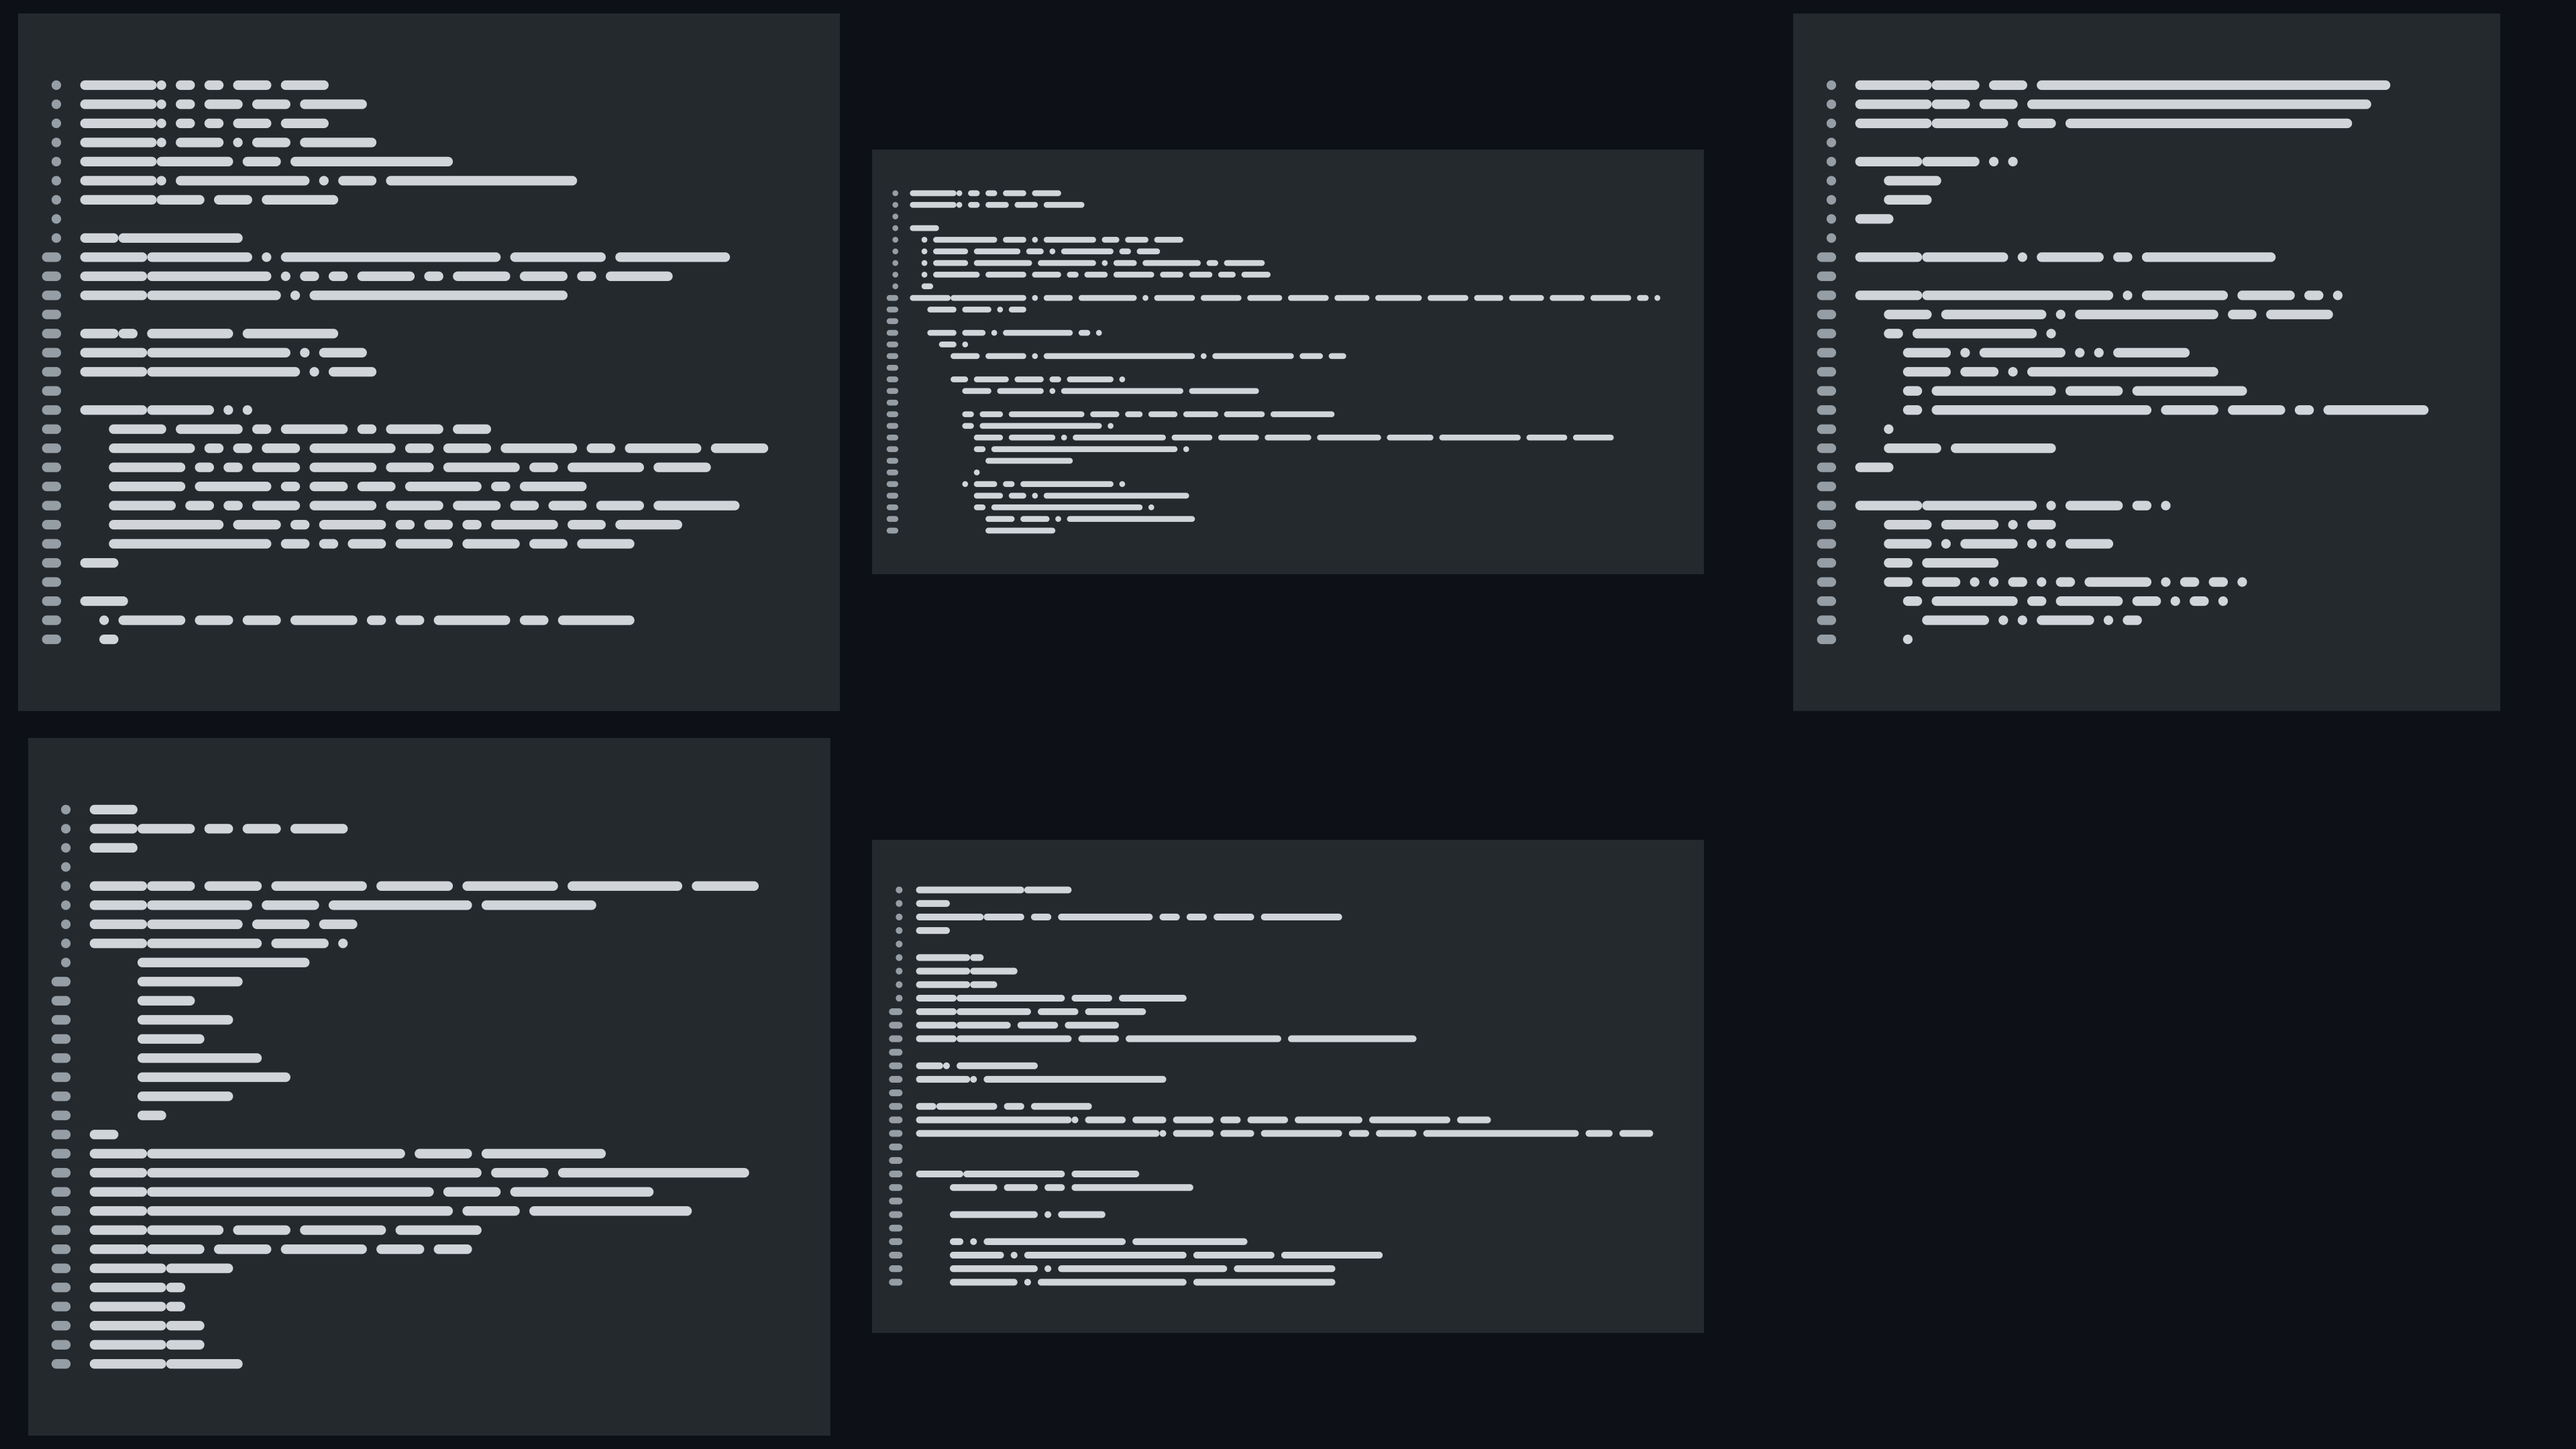
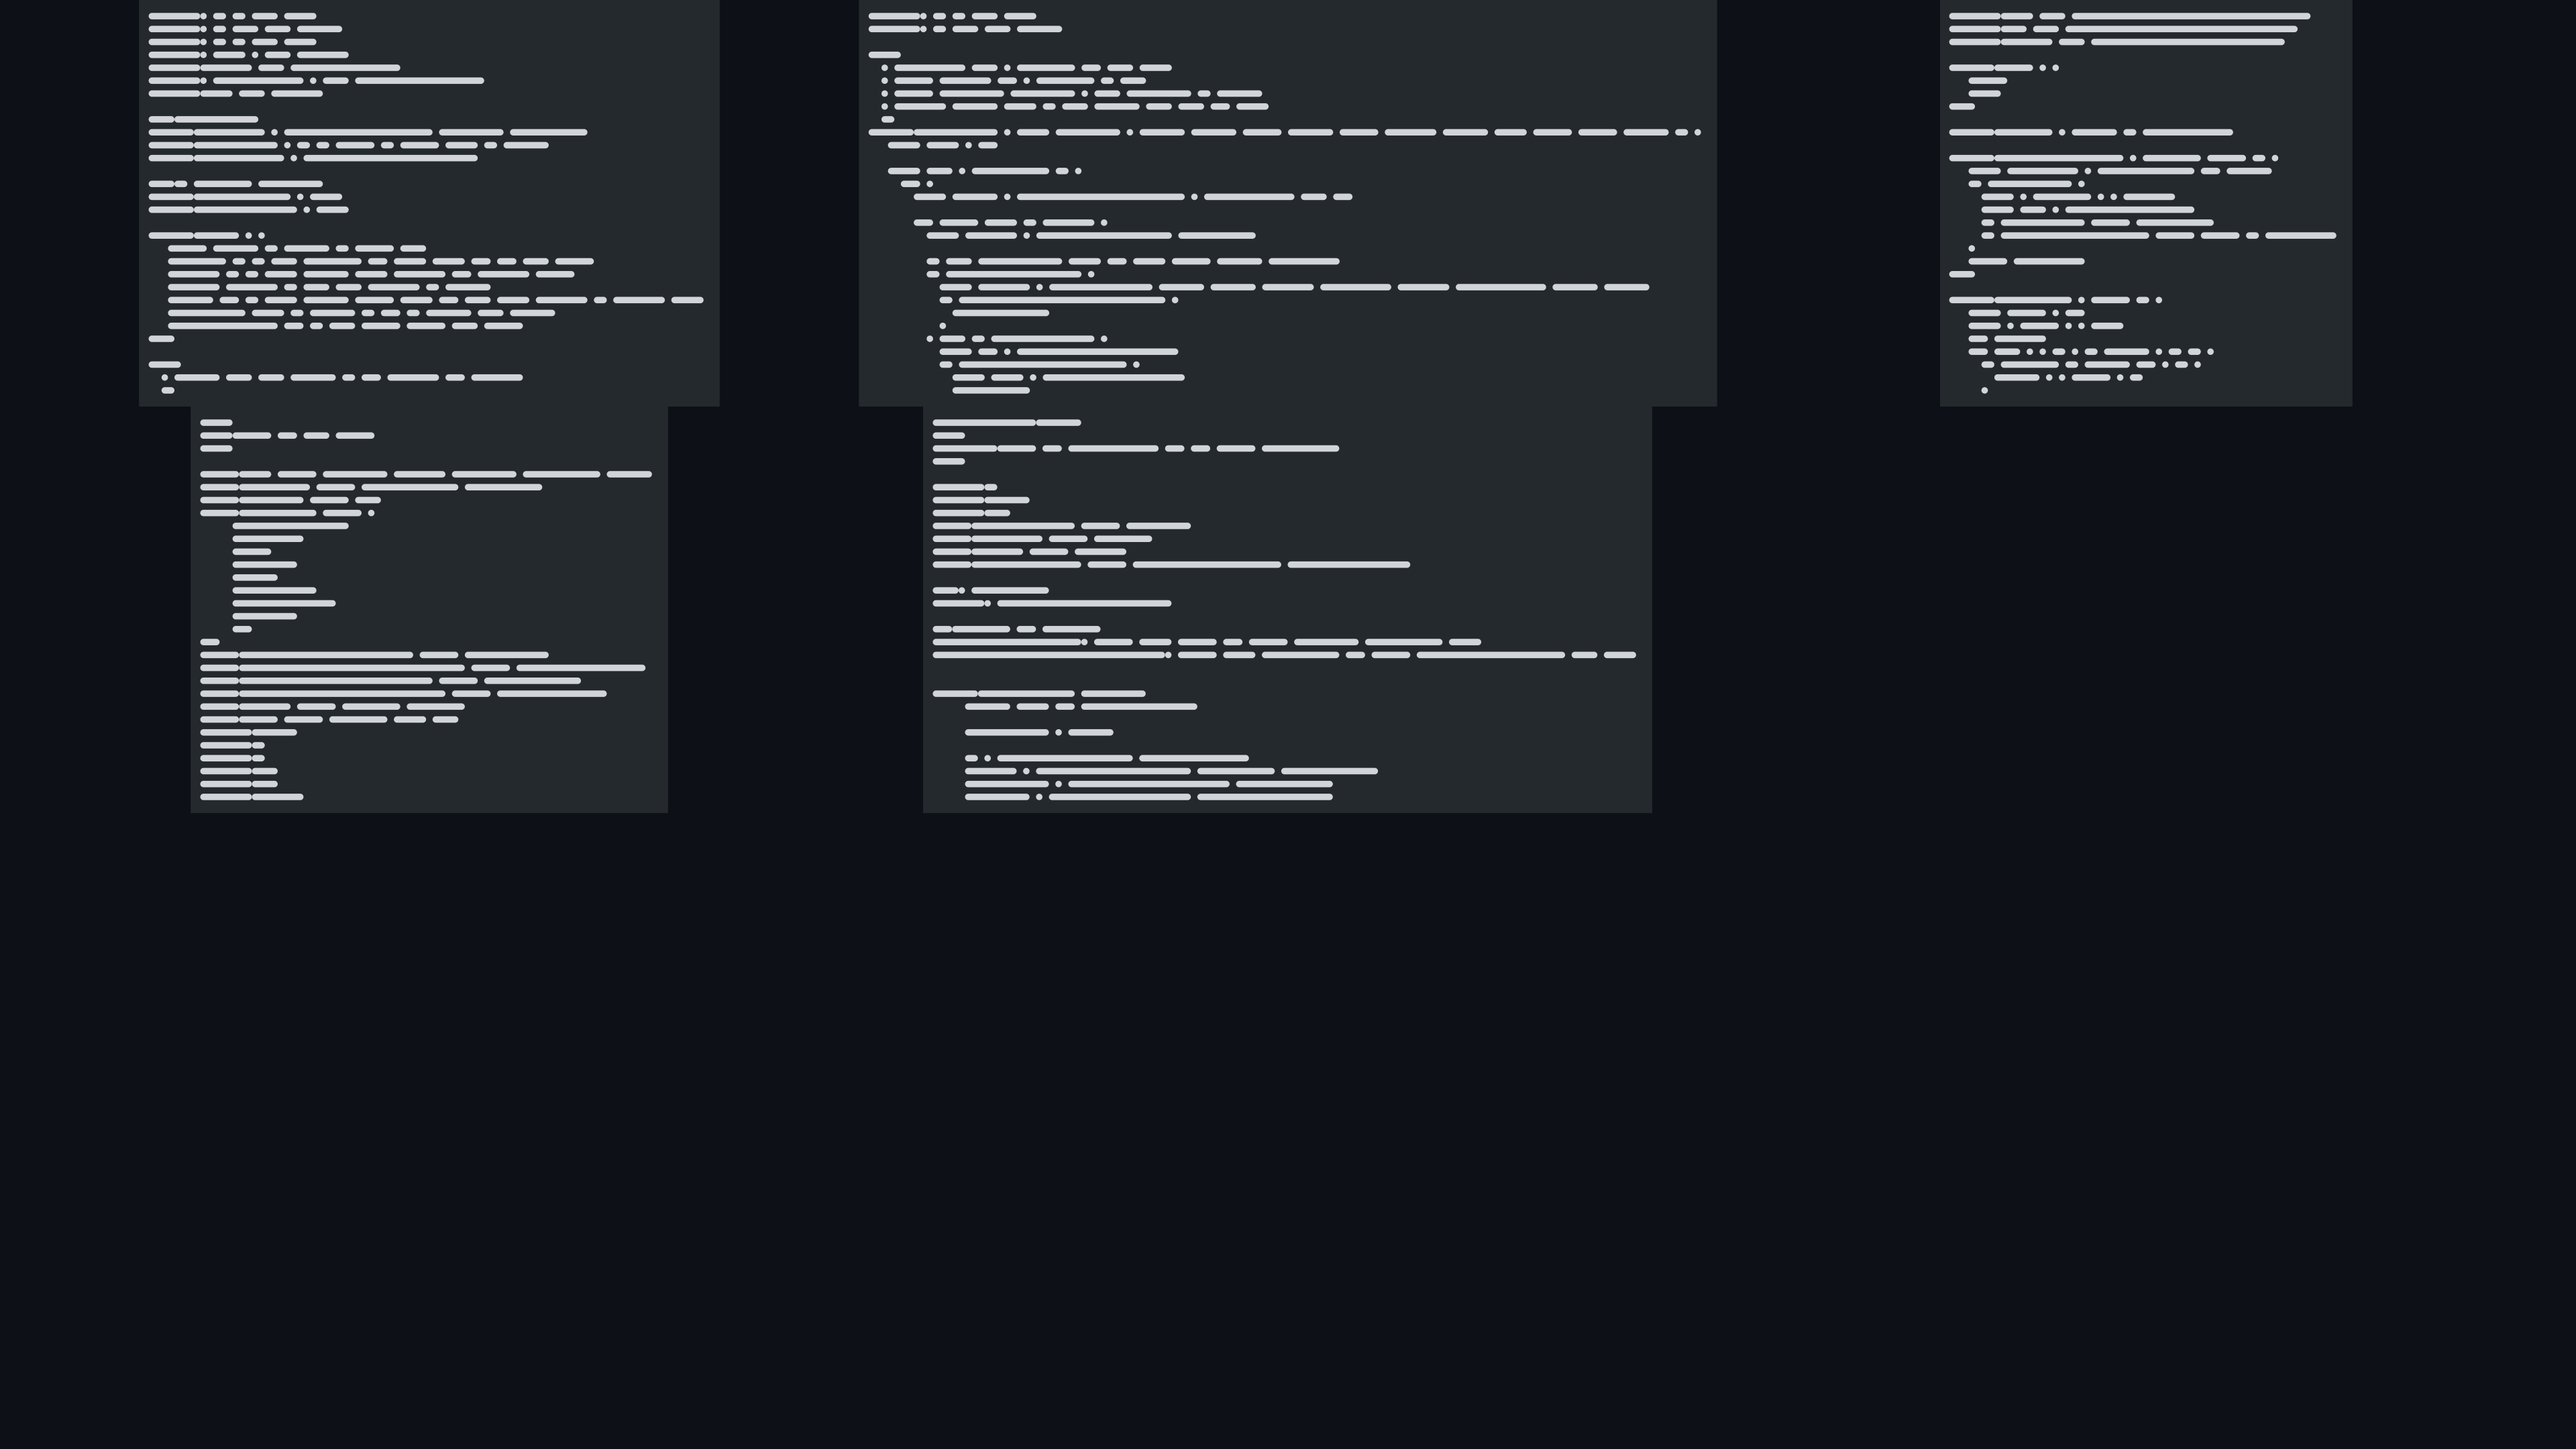
Improve faux-code wallpaper layout and scaling consistency
Refines the grid layout algorithm for faux-code wallpapers by introducing a global scale factor to ensure consistent line thickness across all items. Reduces canvas margins to minimize gaps and improves packing efficiency. Simplifies and optimizes the positioning logic, ensuring better centering of elements in a tighter grid. Also includes minor code cleanup for improved readability.

diff --git a/index.js b/index.js
@@ -17,10 +17,10 @@ const WALLPAPER_HEIGHT = 2160;
 
 const options = {
   theme: 'dark', // 'light' or 'dark' mode
-  fontSize: 4, // Line thickness and width (smaller for multiple files)
+  fontSize: 4, // Line thickness and width (same for all faux codes)
   leading: 8, // Space between lines (tighter for multiple files)
   lineCap: 'round', // Line ends 'square' or 'round'
-  margin: 30, // Space between canvas edges and code block (smaller)
+  margin: 10, // Space between canvas edges and code block (reduced to minimise gaps)
   lineNumbers: true, // Whether or not to include line numbers
   lineNumberOffset: -3, // Line number offset from margin
 };
@@ -68,6 +68,8 @@ const generateFauxCodeForFile = (filePath) => {
 
 /**
  * Combine multiple SVGs into a single 4K PNG wallpaper
+ * - Uses a single global scale factor so line thickness is consistent
+ * - Packs faux codes in a tight grid so the wallpaper is well filled
  */
 const combineSVGsToWallpaper = async (svgData) => {
   // Create a background
@@ -80,32 +82,45 @@ const combineSVGsToWallpaper = async (svgData) => {
     },
   }).png();
 
-  // Calculate grid layout
-  const cols = Math.ceil(Math.sqrt(svgData.length));
-  const rows = Math.ceil(svgData.length / cols);
-  const cellWidth = Math.floor(WALLPAPER_WIDTH / cols);
-  const cellHeight = Math.floor(WALLPAPER_HEIGHT / rows);
+  // Grid layout based on number of faux codes
+  const count = svgData.length;
+  const cols = Math.ceil(Math.sqrt(count));
+  const rows = Math.ceil(count / cols);
+
+  // Find the maximum faux-code size so we can size cells consistently
+  const maxWidth = Math.max(...svgData.map((s) => s.width));
+  const maxHeight = Math.max(...svgData.map((s) => s.height));
+
+  // Single global scale factor so line thickness is consistent
+  const globalScale = Math.min(
+    WALLPAPER_WIDTH / (cols * maxWidth),
+    WALLPAPER_HEIGHT / (rows * maxHeight),
+  );
+
+  // Cell size after scaling
+  const cellWidth = maxWidth * globalScale;
+  const cellHeight = maxHeight * globalScale;
 
   // Convert each SVG to PNG and position them
   const composites = [];
-  for (let i = 0; i < svgData.length; i++) {
+  for (let i = 0; i < svgData.length; i += 1) {
     const { svg, width, height } = svgData[i];
 
-    // Calculate position in grid
+    // Row/column in the grid
     const col = i % cols;
     const row = Math.floor(i / cols);
 
-    // Scale SVG to fit cell while maintaining aspect ratio
-    const scale = Math.min(
-      (cellWidth - 40) / width,
-      (cellHeight - 40) / height
-    );
-    const scaledWidth = Math.floor(width * scale);
-    const scaledHeight = Math.floor(height * scale);
+    // Scale using the shared factor
+    const scaledWidth = Math.floor(width * globalScale);
+    const scaledHeight = Math.floor(height * globalScale);
 
-    // Center in cell
-    const x = col * cellWidth + (cellWidth - scaledWidth) / 2;
-    const y = row * cellHeight + (cellHeight - scaledHeight) / 2;
+    // Top-left of this cell in the wallpaper
+    const cellX = col * cellWidth;
+    const cellY = row * cellHeight;
+
+    // Center faux-code inside its cell
+    const x = cellX + (cellWidth - scaledWidth) / 2;
+    const y = cellY + (cellHeight - scaledHeight) / 2;
 
     try {
       const pngBuffer = await sharp(Buffer.from(svg))
@@ -119,14 +134,11 @@ const combineSVGsToWallpaper = async (svgData) => {
         left: Math.floor(x),
       });
     } catch (error) {
-      console.error(`Error converting SVG to PNG:`, error.message);
+      console.error('Error converting SVG to PNG:', error.message);
     }
   }
 
-  // Composite all images onto the background
-  const wallpaper = await background
-    .composite(composites)
-    .toFile(outputFilename);
+  await background.composite(composites).toFile(outputFilename);
 
   console.log(`Wallpaper created: ${outputFilename}`);
   console.log(`Dimensions: ${WALLPAPER_WIDTH}x${WALLPAPER_HEIGHT}`);
